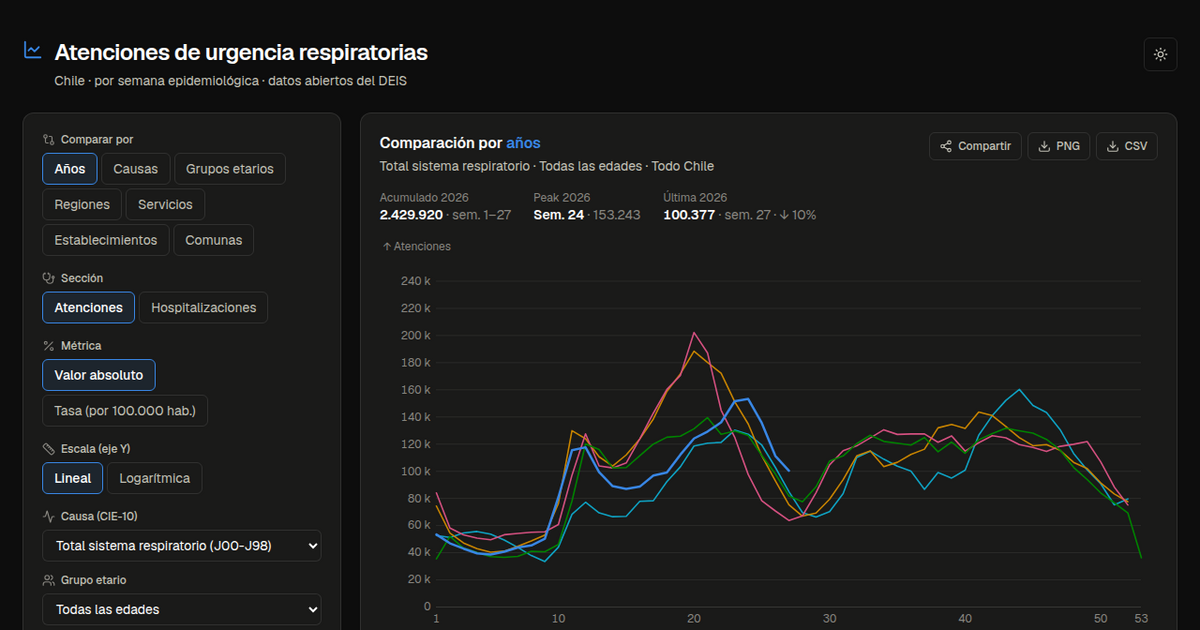
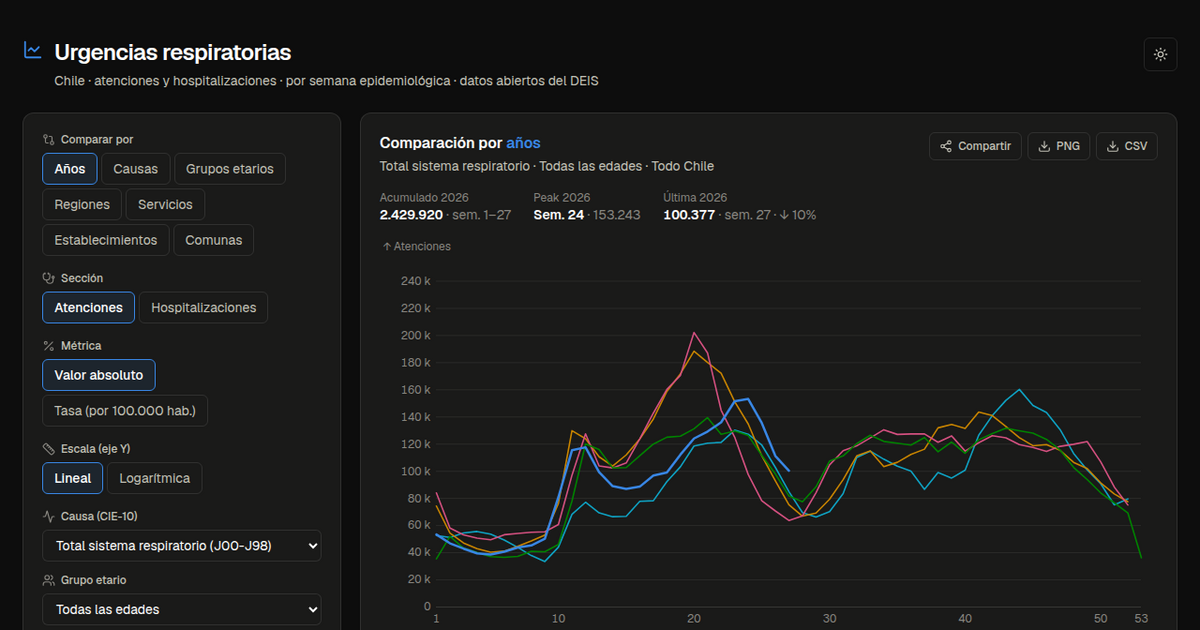
Título: "Urgencias respiratorias" (ya incluye hospitalizaciones)
"Atenciones de urgencia respiratorias" quedó corto tras sumar las
hospitalizaciones. Se renombra a "Urgencias respiratorias" (H1) / "Urgencias
respiratorias en Chile" (título de página, Open Graph, Twitter, PNG, README),
con el subtítulo "Chile · atenciones y hospitalizaciones · …". Se regenera la
imagen OG con el título nuevo.

Changed region(s): [[0.0308, 0.0603, 0.4933, 0.1508]]

diff --git a/app/layout.tsx b/app/layout.tsx
@@ -20,27 +20,27 @@ const DESCRIPCION =
 
 export const metadata: Metadata = {
   metadataBase: new URL(SITIO),
-  title: "Atenciones de urgencia respiratorias en Chile",
+  title: "Urgencias respiratorias en Chile",
   description: DESCRIPCION,
   openGraph: {
     type: "website",
     locale: "es_CL",
     url: `${SITIO}/`,
-    siteName: "Atenciones de urgencia respiratorias · Chile",
-    title: "Atenciones de urgencia respiratorias en Chile",
+    siteName: "Urgencias respiratorias · Chile",
+    title: "Urgencias respiratorias en Chile",
     description: DESCRIPCION,
     images: [
       {
         url: `${SITIO}/og.png`,
         width: 1200,
         height: 630,
-        alt: "Visualizador de atenciones de urgencia respiratorias en Chile",
+        alt: "Visualizador de urgencias respiratorias en Chile",
       },
     ],
   },
   twitter: {
     card: "summary_large_image",
-    title: "Atenciones de urgencia respiratorias en Chile",
+    title: "Urgencias respiratorias en Chile",
     description: DESCRIPCION,
     images: [`${SITIO}/og.png`],
   },

diff --git a/components/dashboard.tsx b/components/dashboard.tsx
@@ -291,7 +291,7 @@ export function Dashboard() {
   const exportar = () => {
     const dim = pluralDe(filtros.comparar).toLowerCase();
     graficoRef.current?.exportarPNG({
-      titulo: "Atenciones de urgencia respiratorias · Chile",
+      titulo: "Urgencias respiratorias en Chile",
       subtitulo:
         `Comparación por ${dim}` +
         (ctx.length ? ` · ${ctx.join(" · ")}` : "") +
@@ -331,10 +331,11 @@ export function Dashboard() {
           />
           <div>
             <h1 className="text-xl font-semibold tracking-tight text-ink sm:text-2xl">
-              Atenciones de urgencia respiratorias
+              Urgencias respiratorias
             </h1>
             <p className="mt-1 text-sm text-ink-2">
-              Chile · por semana epidemiológica · datos abiertos del DEIS
+              Chile · atenciones y hospitalizaciones · por semana epidemiológica ·
+              datos abiertos del DEIS
             </p>
           </div>
         </div>

diff --git a/README.md b/README.md
@@ -1,6 +1,6 @@
-# Atenciones de urgencia respiratorias en Chile
+# Urgencias respiratorias en Chile
 
-Visualizador web de las **atenciones de urgencia por causas respiratorias** en Chile,
+Visualizador web de las **atenciones y hospitalizaciones de urgencia por causas respiratorias** en Chile,
 por semana epidemiológica. Permite **comparar por cualquier dimensión** —años, causas
 (CIE-10), grupos etarios, regiones o servicios de salud— con las demás como filtro de
 contexto, ver **tasas por 100.000 habitantes** (al comparar años, regiones o